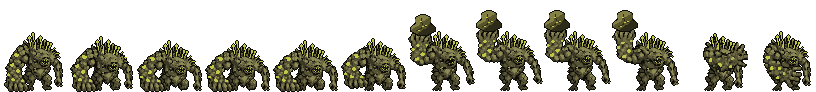
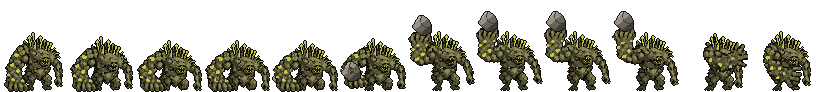
Brute boulder: angular grey ground stone, ripped out of the ground at the fist; shatter in stone colours
Claude-Session: https://claude.ai/code/session_01Jpd5tdDJTR7BVueAYV1KDM

diff --git a/ArtSource/brute_build.py b/ArtSource/brute_build.py
@@ -67,30 +67,35 @@ walk = [walk_frame(i) for i in range(8)]
 for n_, r_ in ((1, 1), (2, 2), (3, 3), (4, 4), (5, 5), (6, 6)): P[f"dip{n_}"] = dip(I, r_)
 P["crouch"] = P["dip4"]
 # ---- the rock (boulder), its shatter and the slam dust, drawn here
+STONE = {"OL": (20, 18, 16), "DK": (62, 58, 54), "MID": (104, 100, 92), "HI": (150, 146, 134), "HI2": (178, 174, 160), "DIRT": (96, 74, 50)}
 def rock_frames(n=6, size=26):
-    """a BOULDER (Yan: the 16 px rock "reads as a pebble", at least 50 % bigger): 26 px, lumpy, faceted light from the upper left, dark cracks, yellow flecks like his own body, tumbling over 6 frames"""
-    OL, MID, DK, HI, FL = (14, 14, 8), (88, 84, 44), (46, 44, 24), (132, 128, 70), (200, 208, 70); rng = np.random.RandomState(5); out = []
+    """a BOULDER of GROUND stone (Yan: it looked like a fidget spinner and like it came from the Brute): an irregular angular polygon (9 corners, flat faces, no lobes), grey-brown stone, light from the upper left in three flat tones, dark cracks, a little dirt clinging at the bottom, no yellow; it tumbles over 6 frames"""
+    rng = np.random.RandomState(11); k = 9; base = [(2 * math.pi * i / k + rng.uniform(-0.25, 0.25), 0.74 + 0.26 * rng.rand()) for i in range(k)]
+    cracks = [(rng.uniform(-0.5, 0.5), rng.uniform(-0.5, 0.5), rng.uniform(0, 6.28), rng.uniform(0.25, 0.5)) for _ in range(3)]; out = []
+    c = size / 2.0 - 0.5; r0 = size * 0.46
     for i in range(n):
-        a = np.zeros((size, size, 4), np.uint8); c = size / 2.0 - 0.5; ph = i * 1.05; r0 = size * 0.40
+        rot = i * (2 * math.pi / n) * 1.0; big = 4; im = Image.new("L", (size * big, size * big), 0); dr = ImageDraw.Draw(im)
+        pts = [((c + math.cos(a + rot) * rr * r0) * big + big / 2, (c + math.sin(a + rot) * rr * r0) * big + big / 2) for a, rr in base]; dr.polygon(pts, fill=255)
+        m = np.array(im.resize((size, size), Image.NEAREST)) > 127; edge = m & ~nd.binary_erosion(m); arr = np.zeros((size, size, 4), np.uint8)
         for y in range(size):
             for x in range(size):
-                ang = math.atan2(y - c, x - c); r = r0 * (1 + 0.14 * math.sin(3 * ang + ph) + 0.09 * math.sin(5 * ang - 2 * ph) + 0.05 * math.sin(7 * ang + ph)); d = math.hypot(x - c, y - c)
-                if d <= r:
-                    lit = (x - c) * -0.6 + (y - c) * -0.8; t = d / r; col = HI if (lit > r * 0.30 and t > 0.45) else DK if (lit < -r * 0.30 and t > 0.35) else MID; a[y, x] = (*col, 255)
-                elif d <= r + 1.0: a[y, x] = (*OL, 255)
-        for k in range(3):                                                  # cracks: short dark runs across the face, turning with the tumble
-            ang = ph + k * 2.1; cx0, cy0 = c + math.cos(ang) * 2, c + math.sin(ang) * 2
-            for step in range(7):
-                x, y = int(round(cx0 + math.cos(ang + 0.5) * step)), int(round(cy0 + math.sin(ang + 0.5) * step))
-                if 0 <= x < size and 0 <= y < size and a[y, x, 3] and tuple(a[y, x, :3]) != OL: a[y, x] = (*DK, 255)
-        for _ in range(5):
-            x, y = int(c + rng.uniform(-6, 6)), int(c + rng.uniform(-6, 6))
-            if a[y, x, 3] and tuple(a[y, x, :3]) not in (OL, DK): a[y, x] = (*FL, 255); a[y, min(size - 1, x + 1)] = (*FL, 255) if a[y, min(size - 1, x + 1), 3] else a[y, min(size - 1, x + 1)]
-        out.append(Image.fromarray(a))
+                if not m[y, x]: continue
+                if edge[y, x]: arr[y, x] = (*STONE["OL"], 255); continue
+                lit = ((x - c) * -0.65 + (y - c) * -0.75) / r0; d = math.hypot(x - c, y - c) / r0
+                col = STONE["HI2"] if (lit > 0.62 and d > 0.25) else STONE["HI"] if lit > 0.2 else STONE["MID"] if lit > -0.35 else STONE["DK"]; arr[y, x] = (*col, 255)
+        for (ox, oy, ang, ln) in cracks:                                         # cracks stay on the rock and turn with it
+            ca, sa = math.cos(rot), math.sin(rot); px, py = (ox * ca - oy * sa) * r0 + c, (ox * sa + oy * ca) * r0 + c
+            for st in range(int(ln * r0 * 1.6)):
+                x, y = int(round(px + math.cos(ang + rot) * st)), int(round(py + math.sin(ang + rot) * st))
+                if 0 <= x < size and 0 <= y < size and arr[y, x, 3] and not edge[y, x]: arr[y, x] = (*STONE["DK"], 255)
+        for y in range(size - 1, -1, -1):                                         # a little dirt clings to the underside of the rock
+            for x in range(size):
+                if arr[y, x, 3] and not edge[y, x] and ((y - c) / r0 > 0.45 + 0.2 * math.sin(x * 1.3 + i)) and rng.rand() < 0.35: arr[y, x] = (*STONE["DIRT"], 255)
+        out.append(Image.fromarray(arr))
     return out
 def hit_frames(n=6, w=60, h=40):
     """the boulder bursts on the target: a flash of dust, big chunks flying out and falling, a ground shockwave ring, pebbles left behind"""
-    OL, MID, DK, DUST, DUST2 = (14, 14, 8), (88, 84, 44), (46, 44, 24), (176, 166, 132), (120, 112, 88); rng = np.random.RandomState(9); ch = [(rng.uniform(-1, 1), rng.uniform(0.5, 1.0), rng.choice([4, 5, 6])) for _ in range(9)]; out = []
+    OL, MID, DK, DUST, DUST2 = STONE["OL"], STONE["MID"], STONE["DK"], (176, 160, 128), (120, 104, 80); rng = np.random.RandomState(9); ch = [(rng.uniform(-1, 1), rng.uniform(0.5, 1.0), rng.choice([4, 5, 6])) for _ in range(9)]; out = []
     for i in range(n):
         img = Image.new("RGBA", (w, h), (0, 0, 0, 0)); dr = ImageDraw.Draw(img); cx, cy = w / 2.0, h - 8.0; t = i / (n - 1.0)
         if i < 5:

diff --git a/ArtSource/brute_spritecook_export.py b/ArtSource/brute_spritecook_export.py
@@ -24,9 +24,23 @@ json.dump(meta, open(os.path.join(OUT, "brute_attacks.json"), "w"), indent=1)
 tp = os.path.join(HERE, "mutants_anim", "brute_spritecook")
 thr = [Image.open(os.path.join(tp, f"throw_frame{i}.png")).convert("RGBA") for i in range(12)]
 PAD = 24; rock = Image.open(os.path.join(OUT, "fx", "brute_boulder_strip.png")).convert("RGBA").crop((0, 0, 26, 26)); HAND = {6: (14, 9), 7: (12, 5), 8: (12, 5), 9: (12, 5)}     # the top of the raised open hand (measured per frame)
+DIRT = [(96, 74, 50), (70, 56, 42), (120, 104, 80), (62, 58, 54)]
+def debris(g, i, fx, fy):
+    """dirt and pebbles thrown up where the big fist grips the ground (frames 3-5): rising and spreading, in ground colours"""
+    rng = np.random.RandomState(40 + i); n = 4 + 3 * (i - 2)
+    for k in range(n):
+        up = (i - 2) * 3.0 + rng.uniform(0, 5); x = int(fx + rng.uniform(-9, 9) * (0.6 + 0.3 * (i - 2))); y = int(fy - up - rng.uniform(0, 4) + PAD); s_ = 1 + int(rng.rand() < 0.4); col = DIRT[k % 4]
+        for dx in range(s_):
+            for dy in range(s_):
+                if 0 <= x + dx < g.width and 0 <= y + dy < g.height: g.putpixel((x + dx, y + dy), (*col, 255))
+FIST = (11, 60)                                                          # where the big fist grips the ground in frames 3-5 (px in the original frame)
 frames = []
 for i, f in enumerate(thr):
     g = Image.new("RGBA", (f.width, f.height + PAD), (0, 0, 0, 0)); g.alpha_composite(f, (0, PAD))
+    if i == 4:                                                           # the stone's top shows behind the fist, half buried
+        under = Image.new("RGBA", g.size, (0, 0, 0, 0)); under.alpha_composite(rock, (FIST[0] - rock.width // 2, FIST[1] + PAD - 6 - rock.height // 2)); under.alpha_composite(g); g = under
+    if i == 5: g.alpha_composite(rock, (FIST[0] - rock.width // 2 + 1, FIST[1] + PAD - 12 - rock.height // 2))     # lifted on the fist
+    if i in (3, 4, 5): debris(g, i, *FIST)
     if i in HAND: hx, hy = HAND[i]; g.alpha_composite(rock, (hx + 1 - rock.width // 2, hy + PAD - 7 - rock.height // 2))
     frames.append(g)
 low2 = max(int(np.where(np.array(f)[..., 3].any(1))[0].max()) for f in thr) + PAD; frames = [f.crop((0, 0, f.width, low2 + 1)) for f in frames]

diff --git a/ArtSource/WORK_LOG.md b/ArtSource/WORK_LOG.md
@@ -5886,3 +5886,4 @@ First test: the new Brute idle (`brute_poses/idle.png`, 59x60) imported at nativ
 **Brute walk and slam from SpriteCook are in (2026-11-13).** Yan: the walk "looks good", the slam "looks great (the one that worked, not the unfinished one)" = the v1.5 one. `ArtSource/brute_spritecook_export.py` (run after `brute_build.py`) puts the walk (8 frames at 125 ms) and the slam (12 frames, ms 120,110,110,120,130,170,60,130,170,150,130,110; the fist lands on frame 6 = contact 760 ms, total 1510 ms) into the strips; the pose-based walk and squash slam are gone from the game. The punch still comes from the pose frames and the throw from the heave placeholder (the SpriteCook throw is being made). Frames 68x68, same pixel scale as the stand sprite. `dotnet /tmp/test.dll dungeons` passes; Unity not run.
 **SpriteCook Brute throw (2026-11-13).** Yan agreed to an empty-hand pantomime with the game drawing the rock. v1.5, 12 frames, 26 credits (938 left): he bends and grips at the ground (frames 0-5), heaves the BIG arm up overhead with the fingers spread (6-9), lunges forward (10), straightens (11); the generator used the big arm, not the small one, which suits holding a boulder. Wiring: the rock is baked into frames 6-9 on the open hand (so it flips with the sprite; 14 empty rows added on top for it, frame 68x82, `brute_spritecook_export.py`), the strip gets a per-frame release point (`muzzle`, hand position; the lunge frames release from above the head), the throw releases on frame 10 (contact 1060 ms, total 1360 ms). `MutantAttack.BoulderAt` now starts the rock at that point (px -> tiles at 32 px a tile, the pivot 16 px above the ground, mirrored when the Brute faces left) at the hand's height and arcs down to the recorded target tile; `MutantAttack.FaceOverride` + `TacticalGridView.ApplyUnitArt` make the sprite face the target tile fixed at the throw's start (the usual flip follows the local player, wrong for a client's mirror); the damage is unchanged (`BoulderLands`). Harness: +2 checks (release point per frame, the throw faces its target and the rock leaves from the hand on that side). Not run in Unity.
 **Boulder bigger (2026-11-13).** Yan: "the rock is too small, reads as a pebble, we need a boulder, at least 50% bigger". `brute_build.py`: the rock is now 26 px (was 16, +62 %): a lumpy faceted boulder in the Brute's olive/dark green with cracks and yellow flecks, 6 tumbling frames; the shatter (60x40, was 36x24) has bigger chunks, a dust burst and a ground shockwave ring (the view's pivot for it is now 8/40). The held rock in frames 6-9 is the same 26 px boulder, 24 empty rows on top of the throw strip (68x92), release point and contact (frame 10, 1060 ms) unchanged. Rebuild order: `brute_build.py` then `brute_spritecook_export.py` then the two exporters. NOT checked in Unity: how big 26 px reads on the real map.
+**Boulder redrawn as ground stone (2026-11-13).** Yan: "boulder looks like a fidget spinner and seems like it came from the brute itself not the ground". The old rock was a 3-lobed blob in the Brute's own olive with yellow flecks. Now (`brute_build.py rock_frames`): an irregular 9-corner polygon (flat faces, no lobes), grey-brown stone in three flat tones lit from the upper left, dark cracks that turn with it, dirt clinging to the underside, no yellow; the shatter chunks are the same stone, the dust tan. The throw strip now shows it COMING OUT OF THE GROUND (`brute_spritecook_export.py`): dirt and pebbles thrown up at the big fist's grip (frames 3-5), the stone's top behind the fist (4), lifted on the fist (5), then on the raised palm (6-9). Not checked in Unity.
